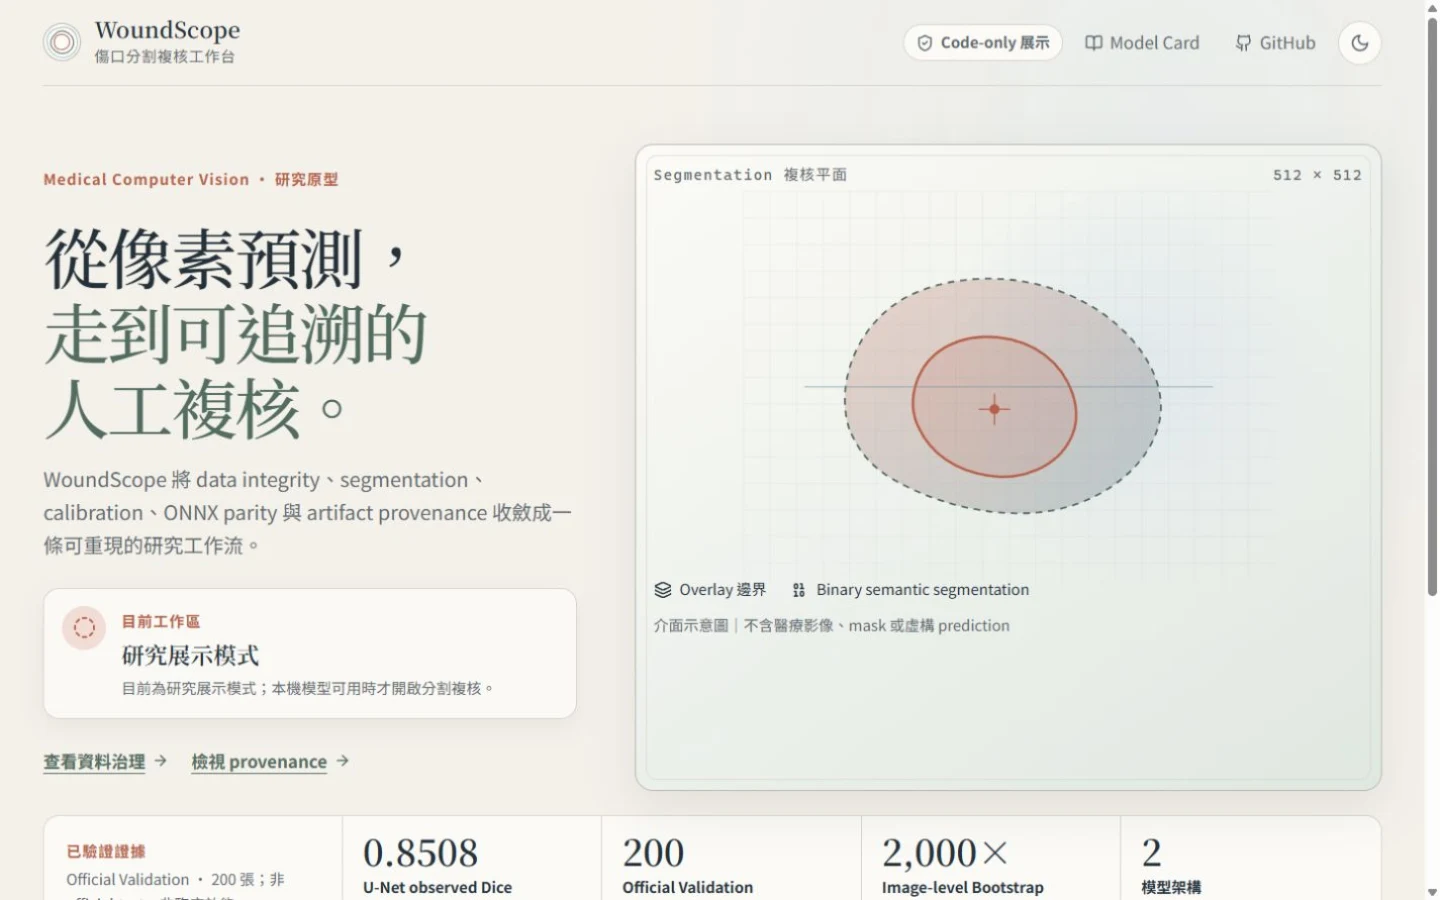
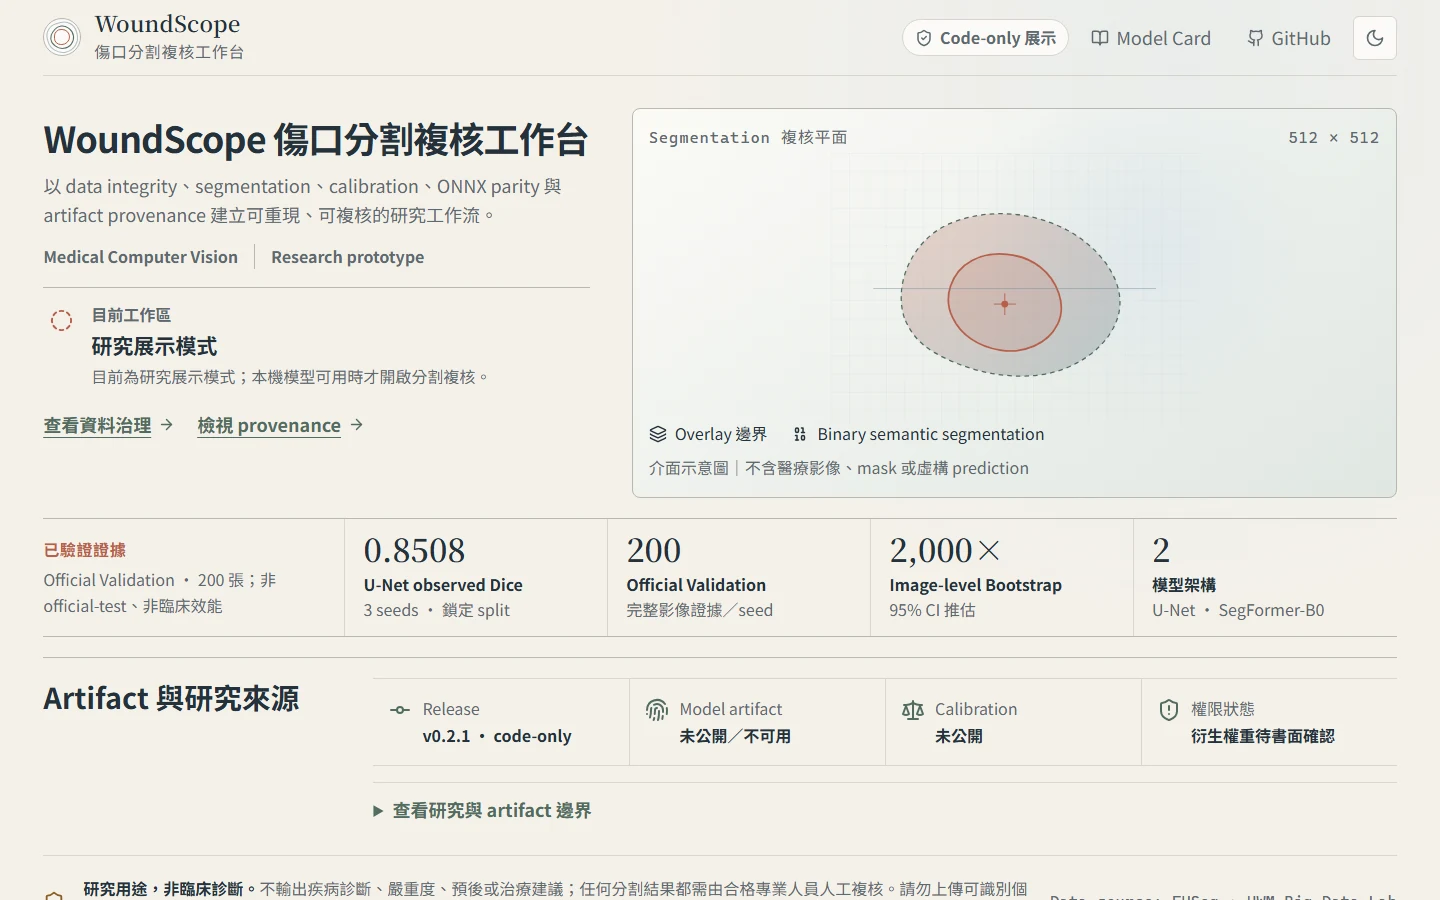
refactor: refine scientific console typography

diff --git a/frontend/src/styles/index.css b/frontend/src/styles/index.css
@@ -238,7 +238,7 @@ main {
   max-width: 620px;
   margin: 0 0 12px;
   font-family: var(--font-sans);
-  font-size: clamp(36px, 3vw, 42px);
+  font-size: clamp(34px, 2.6vw, 36px);
   font-weight: 700;
   line-height: 1.2;
   letter-spacing: -0.025em;
@@ -613,7 +613,7 @@ main {
 .workspace-intro h1 {
   margin: 8px 0 8px;
   font-family: var(--font-sans);
-  font-size: clamp(36px, 3vw, 42px);
+  font-size: clamp(34px, 2.6vw, 36px);
   font-weight: 700;
   line-height: 1.2;
   letter-spacing: -0.025em;
@@ -1197,7 +1197,7 @@ main {
   }
 
   .showcase h1 {
-    font-size: clamp(34px, 6vw, 38px);
+    font-size: clamp(32px, 5vw, 34px);
   }
 
   .research-plate {
@@ -1301,7 +1301,7 @@ main {
   }
 
   .showcase h1 {
-    font-size: clamp(30px, 9vw, 34px);
+    font-size: clamp(28px, 8vw, 30px);
   }
 
   .research-context span + span {
@@ -1364,7 +1364,7 @@ main {
   }
 
   .workspace-intro h1 {
-    font-size: clamp(30px, 9vw, 34px);
+    font-size: clamp(28px, 8vw, 30px);
   }
 
   .local-runtime-note {

diff --git a/docs/design/2026-08-13-woundscope-scientific-console-implementation-plan.md b/docs/design/2026-08-13-woundscope-scientific-console-implementation-plan.md
@@ -12,7 +12,7 @@
 
 - Work only in the canonical checkout on `codex/ui-review-workbench`; do not create a clone or worktree.
 - Human-readable copy is zh-TW-first; technical proper nouns remain in English.
-- Showcase H1 is `WoundScope 傷口分割複核工作台`; desktop 38–42px, tablet 34–38px, mobile 30–34px, sans-serif.
+- Showcase H1 is `WoundScope 傷口分割複核工作台`; desktop 34–36px, tablet 32–34px, mobile 28–30px, sans-serif.
 - Desktop body text is 18px; mobile body text is 17px; visible metadata is at least 16px.
 - Interactive targets remain at least 44×44px.
 - Radius tokens are small 4px, medium 6px, large 8px.
@@ -156,7 +156,7 @@ Then make these bounded stylesheet changes:
 
 - `main`: 24–32px top padding and 16–20px section gap.
 - `.showcase`: top-aligned 5/7 desktop grid; remove copy vertical centering.
-- Showcase H1 and workspace H1: sans-serif, 38–42px desktop, maximum 34px mobile.
+- Showcase H1 and workspace H1: sans-serif, 34–36px desktop, maximum 30px mobile.
 - `.lede`, status copy, evidence labels, provenance labels, footer, review helpers: 16px minimum; main explanatory copy 17–18px.
 - `.mode-status`: inline grid with one top rule, no card background, radius, shadow, or enclosing border.
 - `.research-plate`: 360–390px desktop, one border, 8px radius, no inset pseudo-frame or main shadow; scale SVG accordingly.
@@ -164,7 +164,7 @@ Then make these bounded stylesheet changes:
 - `.provenance`: top rule, no outer background, shadow, radius, or enclosing border; retain semantic grid dividers.
 - Header navigation links become flat 6px controls; reserve pills for status/segmented controls only.
 - Review workspace keeps borders only where the interaction or image plane needs a boundary; remove redundant result-rail and nested metric card radii when dividers communicate the grouping.
-- Mobile `--body-size` becomes 17px; the abstract plate is at most about 300px and H1 30–34px.
+- Mobile `--body-size` becomes 17px; the abstract plate is at most about 300px and H1 28–30px.
 
 Update `MASTER.md` direction to `Scientific Console／理性研究台`, type floors to 18／17／16px, radius to 4／6／8px, and functional-border rules. Do not change colors or motion policy.
 
@@ -227,7 +227,7 @@ Repeat the affected viewports only. Stop after the confirmation pass; do not ent
 - [ ] **Step 5: Run the design detector once**
 
 ```powershell
-node C:\Users\3Hml\.codex\skills\impeccable\scripts\detect.mjs --json frontend/src/components/ResearchShowcase.tsx frontend/src/components/ProvenancePanel.tsx frontend/src/features/review/ReviewWorkspace.tsx frontend/src/styles/tokens.css frontend/src/styles/index.css
+node <IMPECCABLE_SKILL_DIR>\scripts\detect.mjs --json frontend/src/components/ResearchShowcase.tsx frontend/src/components/ProvenancePanel.tsx frontend/src/features/review/ReviewWorkspace.tsx frontend/src/styles/tokens.css frontend/src/styles/index.css
 ```
 
 Resolve material findings in the same batch; document advisory-only findings without rerunning the detector.

diff --git a/docs/design/2026-08-13-woundscope-scientific-console-refinement.md b/docs/design/2026-08-13-woundscope-scientific-console-refinement.md
@@ -25,7 +25,7 @@
 ### 3.1 Showcase mode
 
 - H1 固定為「WoundScope 傷口分割複核工作台」，不再使用口號式斷句。
-- H1 使用 `Noto Sans TC` 系列，不使用 serif；desktop 38–42px、tablet 34–38px、mobile 30–34px，line-height 1.2，font-weight 650–700。
+- H1 使用 `Noto Sans TC` 系列，不使用 serif；desktop 34–36px、tablet 32–34px、mobile 28–30px，line-height 1.2，font-weight 650–700。
 - H1 下方以一段 17–18px 說明研究工作流；不使用超過兩行的行銷文案。
 - 不在 H1 上方放 kicker；`Medical Computer Vision` 與 `Research prototype` 作為 H1 說明後的 16px research metadata。
 - 一般正文 desktop 18px、mobile 17px；次要資訊與 metadata 不低於 16px。
@@ -33,7 +33,7 @@
 
 ### 3.2 Local review mode
 
-- 工作台 H1 同樣使用 sans-serif，desktop 不超過 40px、mobile 不超過 32px。
+- 工作台 H1 同樣使用 sans-serif，desktop 不超過 36px、mobile 不超過 30px。
 - 結果數值維持清楚的 tabular hierarchy；confidence 仍固定標示為模型分割信心，非臨床信心。
 
 ## 4. Layout 與空間
